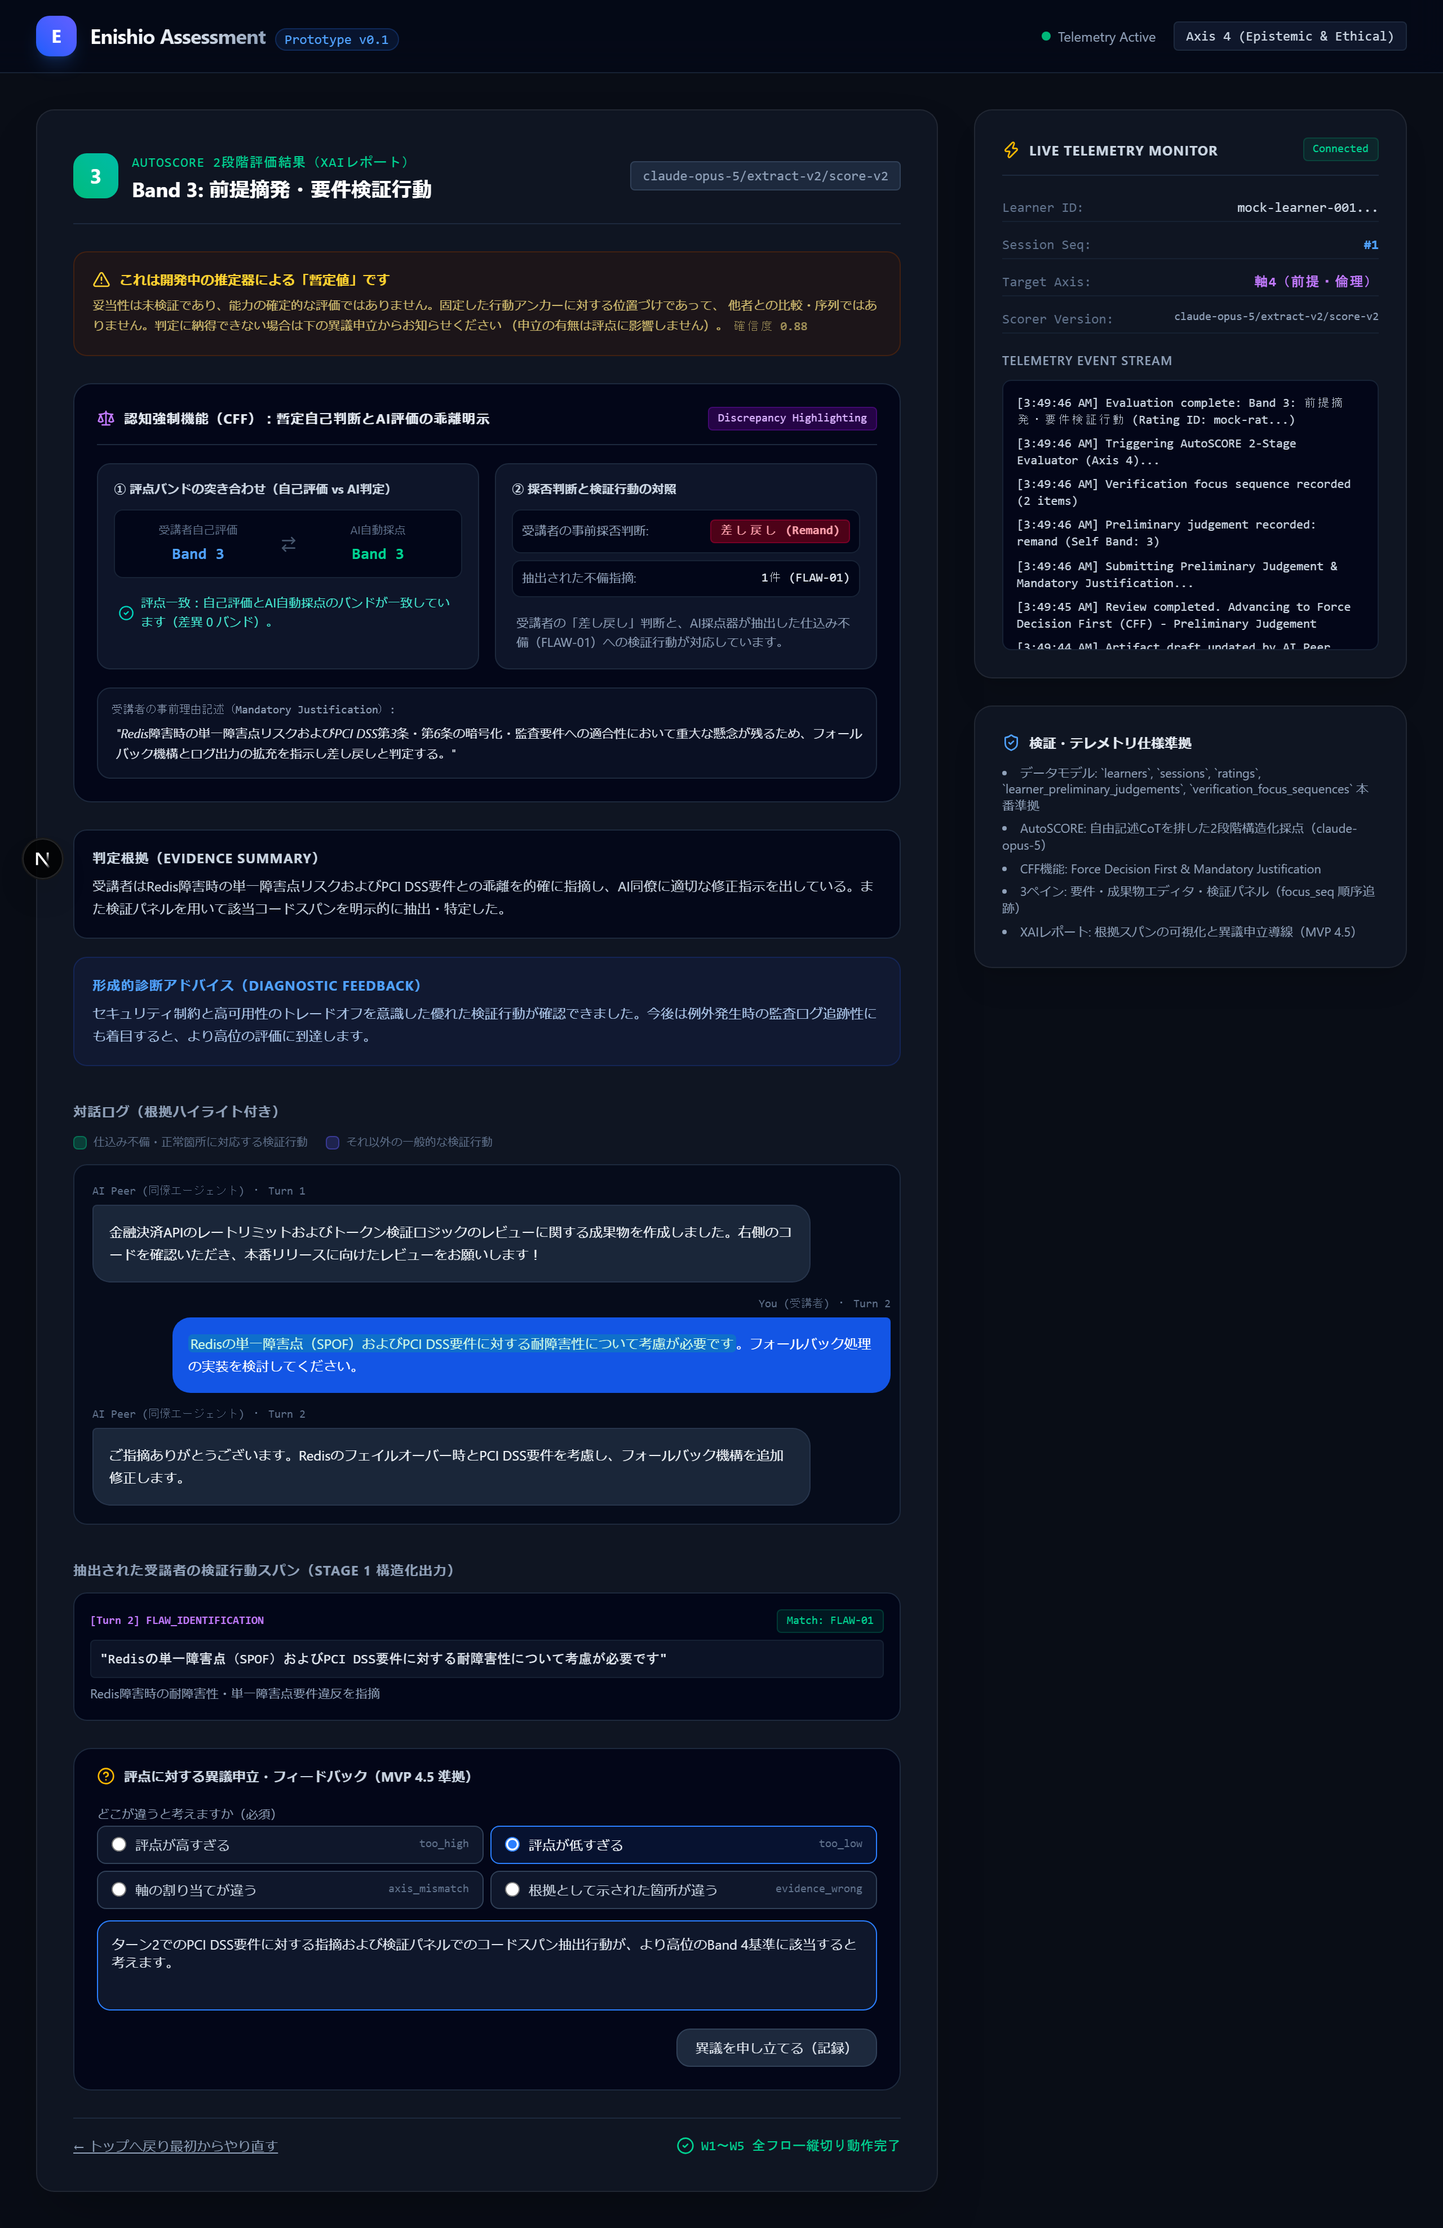
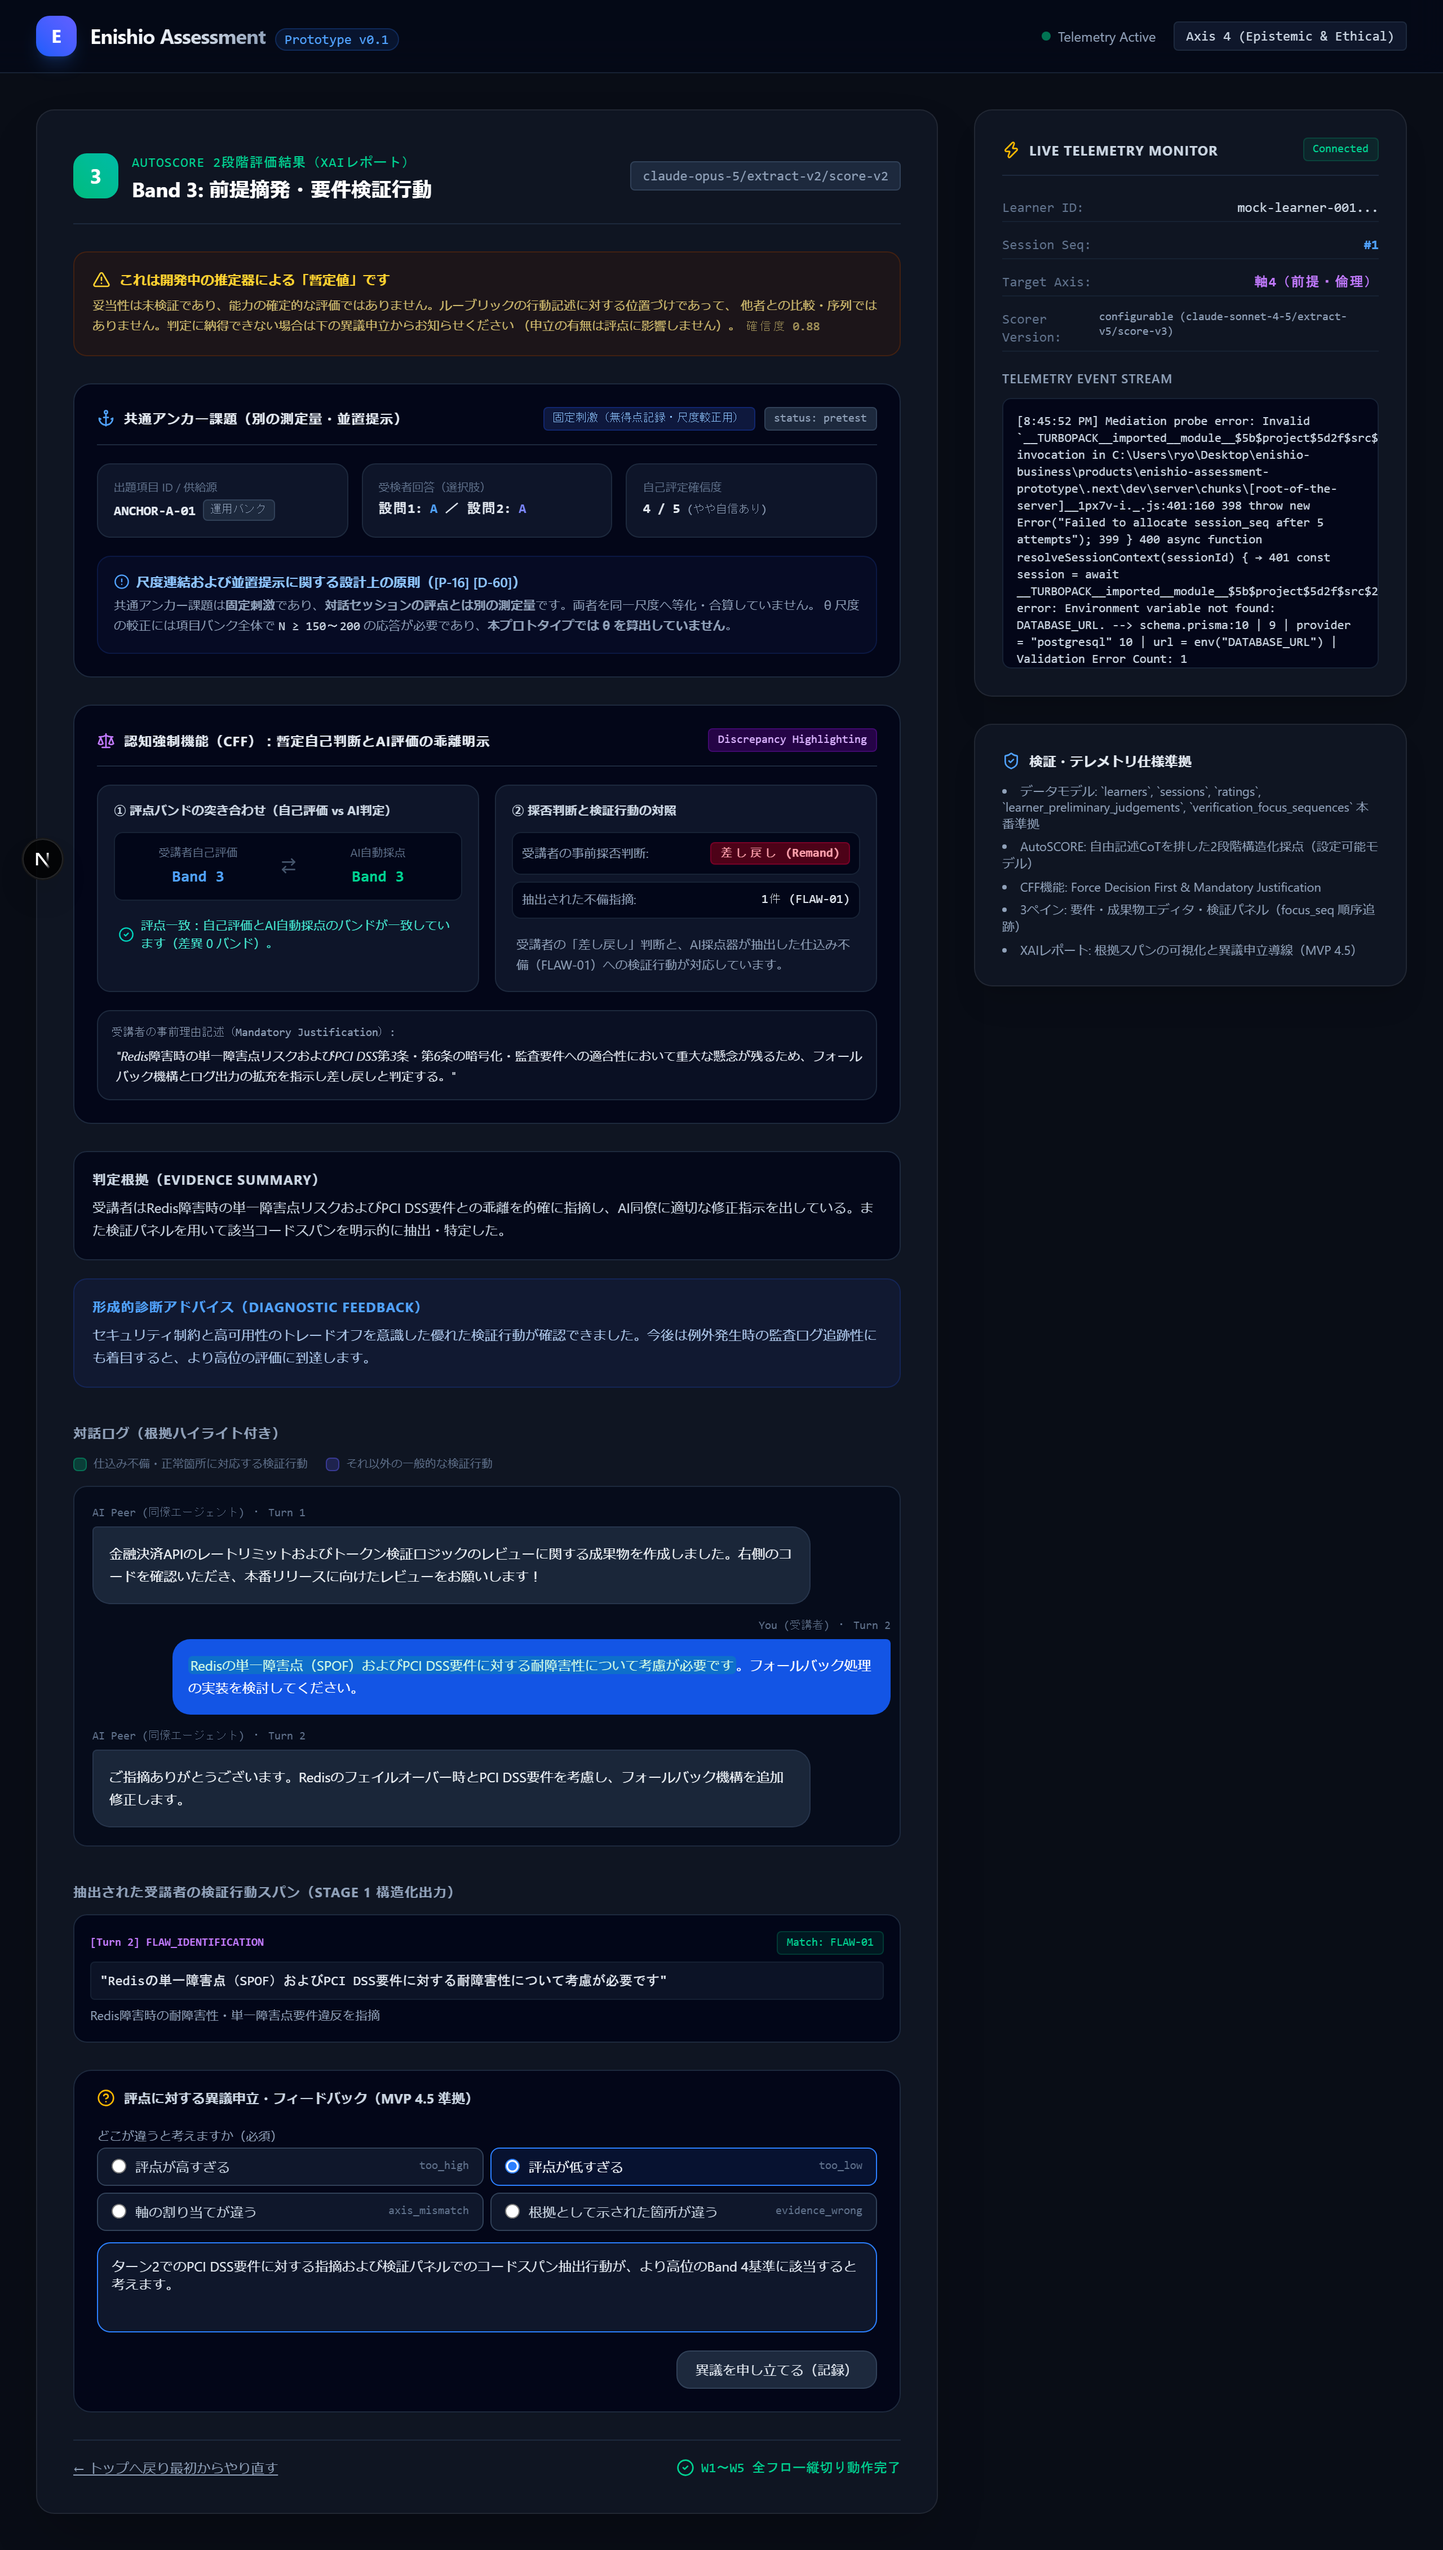
feat: [D-60] XAIレポートへの共通アンカー並置提示ブロック追加とE2E検証（B群・T-32）

diff --git a/src/app/components/EvaluationReportStep.tsx b/src/app/components/EvaluationReportStep.tsx
@@ -8,6 +8,7 @@ import {
   CheckCircle2,
   Scale,
   ArrowRightLeft,
+  Anchor,
 } from "lucide-react";
 import {
   DISAGREEMENT_OPTIONS,
@@ -22,6 +23,12 @@ interface EvaluationReportStepProps {
   prelimAction?: "approve" | "remand" | "";
   prelimScore?: number;
   prelimJustification?: string;
+  anchorId?: string;
+  anchorStatus?: string;
+  bankSource?: "operational" | "demo_sample" | null;
+  q1Choice?: string;
+  q2Choice?: string;
+  confidence?: number;
   disputeReason: string;
   setDisputeReason: (reason: string) => void;
   disputeDirection: string;
@@ -94,6 +101,12 @@ export function EvaluationReportStep({
   prelimAction,
   prelimScore,
   prelimJustification,
+  anchorId,
+  anchorStatus,
+  bankSource,
+  q1Choice,
+  q2Choice,
+  confidence,
   disputeReason,
   setDisputeReason,
   disputeDirection,
@@ -169,7 +182,7 @@ export function EvaluationReportStep({
             これは開発中の推定器による「暫定値」です
           </div>
           <p className="text-[11px] text-amber-200/80 leading-relaxed">
-            妥当性は未検証であり、能力の確定的な評価ではありません。固定した行動アンカーに対する位置づけであって、
+            妥当性は未検証であり、能力の確定的な評価ではありません。ルーブリックの行動記述に対する位置づけであって、
             他者との比較・序列ではありません。判定に納得できない場合は下の異議申立からお知らせください
             （申立の有無は評点に影響しません）。
             <span className="ml-1 font-mono text-amber-200/60">
@@ -178,6 +191,73 @@ export function EvaluationReportStep({
           </p>
         </div>
       )}
+
+      {/* 共通アンカー課題（別の測定量・並置提示） [D-60, P-16] */}
+      <div
+        className="p-5 rounded-2xl bg-slate-950/90 border border-slate-800 space-y-4"
+        data-testid="anchor-parallel-report-block"
+      >
+        <div className="flex items-center justify-between border-b border-slate-800 pb-3">
+          <div className="flex items-center gap-2">
+            <Anchor className="w-4 h-4 text-blue-400" />
+            <h3 className="text-xs font-bold text-slate-200 uppercase tracking-wider">
+              共通アンカー課題（別の測定量・並置提示）
+            </h3>
+          </div>
+          <div className="flex items-center gap-2">
+            <span className="text-[10px] font-mono px-2 py-0.5 rounded bg-blue-950/60 text-blue-300 border border-blue-800/40">
+              固定刺激（無得点記録・尺度較正用）
+            </span>
+            {anchorStatus && (
+              <span className="text-[10px] font-mono px-2 py-0.5 rounded bg-slate-800 text-slate-400 border border-slate-700">
+                status: {anchorStatus}
+              </span>
+            )}
+          </div>
+        </div>
+
+        <div className="grid grid-cols-1 sm:grid-cols-3 gap-3 text-xs">
+          <div className="p-3.5 rounded-xl bg-slate-900/90 border border-slate-800 space-y-1">
+            <span className="text-[10px] text-slate-500 block">出題項目 ID / 供給源</span>
+            <div className="font-mono text-slate-200 font-semibold flex items-center gap-1.5 flex-wrap">
+              <span>{anchorId || "—"}</span>
+              <span className="text-[10px] font-normal px-1.5 py-0.5 rounded bg-slate-800 text-slate-400 border border-slate-700">
+                {bankSource === "operational"
+                  ? "運用バンク"
+                  : bankSource === "demo_sample"
+                  ? "公開デモ用サンプル"
+                  : "項目バンク"}
+              </span>
+            </div>
+          </div>
+          <div className="p-3.5 rounded-xl bg-slate-900/90 border border-slate-800 space-y-1">
+            <span className="text-[10px] text-slate-500 block">受検者回答（選択肢）</span>
+            <div className="font-mono text-slate-200 font-semibold">
+              設問1: <span className="text-blue-400">{q1Choice || "—"}</span> ／ 設問2: <span className="text-indigo-400">{q2Choice || "—"}</span>
+            </div>
+          </div>
+          <div className="p-3.5 rounded-xl bg-slate-900/90 border border-slate-800 space-y-1">
+            <span className="text-[10px] text-slate-500 block">自己評定確信度</span>
+            <div className="font-mono text-slate-200 font-semibold">
+              {confidence ? `${confidence} / 5` : "—"}
+              <span className="text-[10px] font-normal text-slate-400 ml-1.5">
+                ({confidence === 1 ? "全く自信なし" : confidence === 2 ? "やや不安" : confidence === 3 ? "普通" : confidence === 4 ? "やや自信あり" : confidence === 5 ? "非常に確信" : ""})
+              </span>
+            </div>
+          </div>
+        </div>
+
+        <div className="p-3.5 rounded-xl bg-blue-950/20 border border-blue-900/30 text-[11px] text-slate-400 space-y-1 leading-relaxed">
+          <div className="flex items-center gap-1.5 text-blue-300 font-semibold text-xs">
+            <AlertCircle className="w-3.5 h-3.5 text-blue-400 flex-shrink-0" />
+            <span>尺度連結および並置提示に関する設計上の原則（[P-16] [D-60]）</span>
+          </div>
+          <p>
+            共通アンカー課題は<strong>固定刺激</strong>であり、<strong>対話セッションの評点とは別の測定量</strong>です。両者を同一尺度へ等化・合算していません。
+            &theta; 尺度の較正には項目バンク全体で <span className="font-mono text-slate-300">N &ge; 150〜200</span> の応答が必要であり、<strong>本プロトタイプでは &theta; を算出していません</strong>。
+          </p>
+        </div>
+      </div>
 
       {/* CFF Discrepancy Highlighting [MVP 2.5, T-17 §9, T-24] */}
       <div

diff --git a/e2e/assessment-flow.spec.ts b/e2e/assessment-flow.spec.ts
@@ -338,6 +338,12 @@ test.describe("Assessment Prototype End-to-End Flow", () => {
     await expect(page.getByTestId("probe-consistency-block")).toContainText("0.82");
     await expect(page.getByText("評点に対する異議申立・フィードバック")).toBeVisible();
 
+    // 共通アンカー並置提示ブロック [D-60, P-16] の表示確認
+    await expect(page.getByTestId("anchor-parallel-report-block")).toBeVisible();
+    await expect(page.getByTestId("anchor-parallel-report-block")).toContainText("共通アンカー課題（別の測定量・並置提示）");
+    await expect(page.getByTestId("anchor-parallel-report-block")).toContainText("固定刺激（無得点記録・尺度較正用）");
+    await expect(page.getByTestId("anchor-parallel-report-block")).toContainText("本プロトタイプでは θ を算出していません");
+
     // CFF Discrepancy Highlighting の表示確認（一致ケース）
     await expect(page.getByTestId("discrepancy-highlighting-block")).toBeVisible();
     await expect(page.getByTestId("self-score-display")).toContainText("Band 3");
@@ -418,6 +424,7 @@ test.describe("Assessment Prototype End-to-End Flow", () => {
     await page.getByRole("button", { name: "暫定判断を確定し、AI評価を実行する" }).click();
 
     // XAIレポート画面での乖離ハイライト確認
+    await expect(page.getByTestId("anchor-parallel-report-block")).toBeVisible();
     await expect(page.getByTestId("discrepancy-highlighting-block")).toBeVisible();
     await expect(page.getByTestId("self-score-display")).toContainText("Band 5");
     await expect(page.getByTestId("ai-score-display")).toContainText("Band 2");

diff --git a/src/app/page.tsx b/src/app/page.tsx
@@ -35,6 +35,7 @@ export default function AssessmentPrototypePage() {
   // 供給源が確定するまでは null（未取得）にしておき、断定的な表示をしない。
   const [bankSource, setBankSource] = useState<"operational" | "demo_sample" | null>(null);
   const [selectedAnchorId, setSelectedAnchorId] = useState<string>("");
+  const [anchorStatus, setAnchorStatus] = useState<string>("pretest");
   const [currentAnchor, setCurrentAnchor] = useState<AnchorItem | null>(null);
   const [q1Choice, setQ1Choice] = useState<string>("");
   const [q2Choice, setQ2Choice] = useState<string>("");
@@ -240,6 +241,9 @@ export default function AssessmentPrototypePage() {
       });
       const data = await res.json();
       if (data.success) {
+        if (data.anchorStatus) {
+          setAnchorStatus(data.anchorStatus);
+        }
         addTelemetry(
           `Anchor recorded (Response ID: ${data.responseId.slice(0, 8)}..., ${data.anchorStatus} / 無得点)`
         );
@@ -682,6 +686,12 @@ export default function AssessmentPrototypePage() {
               prelimAction={prelimAction}
               prelimScore={prelimScore}
               prelimJustification={prelimJustification}
+              anchorId={selectedAnchorId}
+              anchorStatus={anchorStatus}
+              bankSource={bankSource}
+              q1Choice={q1Choice}
+              q2Choice={q2Choice}
+              confidence={confidence}
               disputeReason={disputeReason}
               setDisputeReason={setDisputeReason}
               disputeDirection={disputeDirection}
